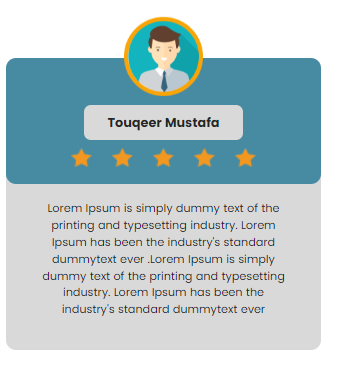
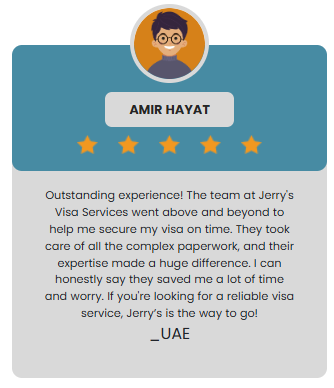
changes

diff --git a/src/component/Carousel.js b/src/component/Carousel.js
@@ -2,10 +2,14 @@ import React from 'react';
 import Slider from 'react-slick';
 import 'slick-carousel/slick/slick.css';
 import 'slick-carousel/slick/slick-theme.css'; 
-import item1 from '../assets/images/item1.png'
-import item2 from '../assets/images/item2.png'
-import item3 from '../assets/images/item3.png'
 import '../App.css'
+import '../assets/css/slider.css';
+
+
+import star from '../assets/images/Icon feather-star.png'
+import client1 from '../assets/images/client1.png'
+import client2 from '../assets/images/client2.png'
+import client3 from '../assets/images/client3.png'
 
 import {SampleNextArrow , SamplePrevArrow} from './CustomArrows'
 
@@ -32,24 +36,97 @@ const Carousel = () => {
   return (
     <div className="carousel-container">
       <Slider {...settings}>
-        <div className="slide-item">
-          <img src={item1} alt="Item 1" />
+        <div className="slide-item" style={{padding:'5rem 0'}}>
+  <div class="carousel-item d-flex active" id="curSlide1" data-bs-interval="10000">
+  <div className="slide w-90 pt-5 mt-4 " style={{margin:'auto',height:'fit-content'}}>
+  <div className="top-bg">
+  <img src={client1} class="d-block w-25 m-auto mt--5 user-img" alt="..."/>
+  <p className="bottle-disc mt-4" style={{fontSize:'1rem'}}>Elena G</p>
+  <div className="stars w-45 m-auto mt-2">
+        <img  src={star} className="m-auto w-50" alt=""/>
+        <img src={star} className="m-auto w-50" alt=""/>
+        <img src={star} className="m-auto w-50" alt=""/>
+        <img src={star} className="m-auto w-50" alt=""/>
+        <img src={star} className="m-auto w-50" alt=""/>
+        </div>
+        </div>
+        <p className="price-txt" style={{fontSize:'0.7rem'}}>Jerry's Visa Services is truly exceptional! Their team is professional, friendly, and highly efficient. They handled my application with such care and attention to detail, making the whole process smooth and hassle-free. I got my visa much faster than I expected. I’m so impressed with their service and would recommend them to anyone needing visa assistance!</p>
+    
+    <p className="country-name-txt" >_SPAIN</p>
+        </div>
+        </div>
         </div>
         <div className="slide-item">
-          <img src={item2} alt="Item 2" />
+        <div class="carousel-item d-flex active" id="curSlide1" data-bs-interval="10000">
+  <div className="slide w-90 pt-5 mt-4 " style={{margin:'auto',height:'fit-content'}}>
+  <div className="top-bg">
+  <img src={client2} class="d-block w-25 m-auto mt--5 user-img" alt="..."/>
+  <p className="bottle-disc mt-4" style={{fontSize:'1rem'}}>MUHAMMAD FAIZAN</p>
+  <div className="stars w-45 m-auto mt-2">
+        <img  src={star} className="m-auto w-50" alt=""/>
+        <img src={star} className="m-auto w-50" alt=""/>
+        <img src={star} className="m-auto w-50" alt=""/>
+        <img src={star} className="m-auto w-50" alt=""/>
+        <img src={star} className="m-auto w-50" alt=""/>
+        </div>
+        </div>
+        <p className="price-txt" style={{fontSize:'0.7rem'}}>I couldn't be happier with the service I received from Jerry's Visa Services! From 
+        start to finish, their team made the visa application process so easy and stress-free. 
+        They answered all my questions, kept me updated, and guided me through every step. Thanks to them, 
+        I got my visa without any issues. Highly recommend them to anyone in need of visa assistance!</p>
+    
+    <p className="country-name-txt" >_PAKISTAN</p>
+        </div>
+        </div>
         </div>
         <div className="slide-item">
-          <img src={item3} alt="Item 3" />
+        <div class="carousel-item d-flex active" id="curSlide1" data-bs-interval="10000">
+  <div className="slide w-90 pt-5 mt-4 " style={{margin:'auto',height:'fit-content'}}>
+  <div className="top-bg">
+  <img src={client1} class="d-block w-25 m-auto mt--5 user-img" alt="..."/>
+  <p className="bottle-disc mt-4" style={{fontSize:'1rem'}}>DIANA-ANFREEA</p>
+  <div className="stars w-45 m-auto mt-2">
+        <img  src={star} className="m-auto w-50" alt=""/>
+        <img src={star} className="m-auto w-50" alt=""/>
+        <img src={star} className="m-auto w-50" alt=""/>
+        <img src={star} className="m-auto w-50" alt=""/>
+        <img src={star} className="m-auto w-50" alt=""/>
+        </div>
+        </div>
+        <p className="price-txt" style={{fontSize:'0.7rem'}}>Jerry's Visa Services provided excellent support throughout my visa application.
+         They were incredibly knowledgeable and professional, which gave me confidence in the entire 
+         process. I especially appreciated their quick response times and attention to detail, ensuring 
+         that my application was flawless. I’m grateful for their dedication and would definitely use their
+          services again in the future!</p>
+    
+    <p className="country-name-txt" >_ROMANIA</p>
+        </div>
+        </div>
         </div>
         <div className="slide-item">
-          <img src={item1} alt="Item 4" />
+        <div class="carousel-item d-flex active" id="curSlide1" data-bs-interval="10000">
+  <div className="slide w-90 pt-5 mt-4 " style={{margin:'auto',height:'fit-content'}}>
+  <div className="top-bg">
+  <img src={client3} class="d-block w-25 m-auto mt--5 user-img" alt="..."/>
+  <p className="bottle-disc mt-4" style={{fontSize:'1rem'}}>AMIR HAYAT</p>
+  <div className="stars w-45 m-auto mt-2">
+        <img  src={star} className="m-auto w-50" alt=""/>
+        <img src={star} className="m-auto w-50" alt=""/>
+        <img src={star} className="m-auto w-50" alt=""/>
+        <img src={star} className="m-auto w-50" alt=""/>
+        <img src={star} className="m-auto w-50" alt=""/>
         </div>
-        <div className="slide-item">
-          <img src={item2} alt="Item 5" />
         </div>
-        <div className="slide-item">
-          <img src={item3} alt="Item 6" />
+        <p className="price-txt" style={{fontSize:'0.7rem'}}>Outstanding experience! The team at Jerry's Visa Services went above and beyond 
+        to help me secure my visa on time. They took care of all the complex paperwork, and their expertise
+         made a huge difference. I can honestly say they saved me a lot of time and worry. If you're 
+         looking for a reliable visa service, Jerry’s is the way to go!</p>
+    
+    <p className="country-name-txt" >_UAE</p>
         </div>
+        </div>
+        </div>
+       
       </Slider>
     </div>
   );

diff --git a/src/component/HomeSlider.js b/src/component/HomeSlider.js
@@ -1,0 +1,74 @@
+import React from "react";
+import Slider from "react-slick";
+import "slick-carousel/slick/slick.css";
+import "slick-carousel/slick/slick-theme.css";
+import sliderImg1 from '../assets/images/slider-img1.png'
+import sliderImg2 from '../assets/images/home-bg1.png'
+import sliderImg3 from '../assets/images/home-bg2.png'
+import Button from 'react-bootstrap/Button';
+import {useNavigate} from 'react-router-dom'
+
+function activeNavItem(path) {
+    var ele = document.querySelectorAll('.nav-link');
+    ele.forEach((element) => {
+     element.classList.remove('active');
+    });
+    if (path == '/') {
+     ele[0].classList.add('active');
+    }else if(path == '/about'){
+     ele[1].classList.add('active');
+    }else if(path == '/products'){
+     ele[2].classList.add('active');
+    }else if(path == '/contact'){
+     ele[3].classList.add('active');
+    } else if(path == '/appointment,'){
+      ele[3].classList.add('active');
+     }
+  
+  }
+const SimpleCarousel = () => {
+      const navigate = useNavigate();
+    const clickHandler=(id)=>{
+        if (id == '/appointment') { 
+           window.open(`${id}`,'_blank','noreferrer');
+        }else{
+          activeNavItem(`${id}`);
+          navigate(`${id}`);
+          window.location.reload();
+        }
+        
+      }
+  const settings = {
+    dots: true,            // Show navigation dots
+    infinite: true,        // Infinite looping of slides
+    speed: 500,            // Transition speed
+    slidesToShow: 1,       // Show 1 slide at a time
+    slidesToScroll: 1,     // Scroll 1 slide at a time
+    autoplay: true,        // Enable auto-play
+    autoplaySpeed: 5000,   // Set auto-play speed to 3 seconds
+  };
+
+  return (
+    <div style={{ width: "100%", margin: "0 auto" }}>
+      <Slider {...settings}>
+        <div className="p-relative">
+        <div className="tag-line-text">Unlocking Boundaries,<br/> Enabling <p>Journeys</p></div>
+        <img src={sliderImg1} className="w-100" alt="" />
+        <Button variant="outline-success consultation-btn w-100 home-btn" onClick={(e)=>clickHandler('/appointment')} >BOOK YOUR APPOINTMENT NOW</Button>
+        </div>
+        <div className="p-relative">
+        <div className="tag-line-text">Simplifying Your Visa Journey,<br/> One <p>Step at a Time</p></div>
+        <img src={sliderImg2} className="w-100" alt="" />
+        <Button variant="outline-success consultation-btn w-100 home-btn" onClick={(e)=>clickHandler('/appointment')} >BOOK YOUR APPOINTMENT NOW</Button>
+        </div>
+        <div className="p-relative">
+        <div className="tag-line-text">YOUR TRAVEL DREAMS,<br/> OUR <p>SERVICES</p></div>
+        <img src={sliderImg3} className="w-100" alt="" />
+        <Button variant="outline-success consultation-btn w-100 home-btn" onClick={(e)=>clickHandler('/appointment')} >BOOK YOUR APPOINTMENT NOW</Button>
+        </div>
+      </Slider>
+    </div>
+  );
+};
+
+export default SimpleCarousel;

diff --git a/src/Pages/Home.js b/src/Pages/Home.js
@@ -8,6 +8,8 @@ import minerals from '../assets/images/Bottle_Minerals.png'
 import Slider from "../component/Slider";
 import ClientSlider from "../component/ClientSlider";
 import sliderImg1 from '../assets/images/slider-img1.png'
+import sliderImg2 from '../assets/images/home-bg1.png'
+import sliderImg3 from '../assets/images/home-bg2.png'
 import aboutUs from '../assets/images/About-us.png'
 import visaConsultancy from "../assets/images/visa-consultancy.png";
 import nic from '../assets/images/NIC.png'
@@ -18,6 +20,7 @@ import { useLinkClickHandler, useNavigate } from "react-router-dom";
 import axios from "axios";
 import SendMessage from "../component/SendMessage";
 import Carousel from '../component/Carousel'
+import SimpleCarousel from "../component/HomeSlider";
 
 const Home = () =>{
 
@@ -113,8 +116,7 @@ return (
     <>
     {/* <div className="image-top" style={{display:'none'}}><img className="w-100" src={banner1} alt="" /></div> */}
   <div className="w-100 " id="home">
-    <div className="tag-line-text">Unlocking Boundaries,<br/> Enabling <p>Journeys</p></div>
-<img src={sliderImg1} className="w-100" alt="" />
+    <SimpleCarousel/>
   </div>
   <div className="row w-95 m-auto py-4" id="aboutUs">
     <p className="text-center heading-text">ABOUT US</p>
@@ -175,11 +177,11 @@ We enthusiastically make your journey memorable that lasts for lifetime without 
   <div className="text-center" id="testimonials" style={{padding:'6vw 0'}}>
   <p className="text-center heading-text">TESTIMONIALS</p>
 
-    <Slider/>
+    {/* <Slider/> */}
   </div>
-  {/* <div id="testimonials" >
+  <div id="testimonials" >
   <Carousel/>
-  </div> */}
+  </div>
   <div id="sendMessage">
 <SendMessage/>
 </div>

diff --git a/src/assets/css/style.css b/src/assets/css/style.css
@@ -138,7 +138,7 @@ button,a{
     margin-top: 1rem;
 }
 .country-name-txt{
-    font-size: 0.7rem;
+    font-size: 1rem;
     font-family: 'poppins';
     width: 80%;
     margin: auto;
@@ -1146,6 +1146,9 @@ margin-top: -5rem !important;
     #home{
         position: relative;
     }
+    .p-relative{
+        position: relative !important;
+    }
     .tag-line-text{
         position: absolute;
         top: 0;
@@ -1157,7 +1160,7 @@ margin-top: -5rem !important;
         height: 100%;
         font-size: 4rem;
         font-family: 'poppins-bold';
-        background: #00000059;
+        background: #000000a1;
         color: white ;
     }
     .tag-line-text p{
@@ -1207,4 +1210,44 @@ margin-top: -5rem !important;
     }
     .react-calendar__tile--now {
         background: #ffff76 ;
+    }
+    .slick-next{
+    position: absolute;
+    top: 50%;
+    right: 1%;
+    z-index: 1;
+    }
+    .slick-prev{
+        position: absolute;
+        top: 50%;
+        left: 1%;
+        z-index: 1;
+        }
+
+    .slick-dots{
+        position: absolute;
+        bottom: 5%;
+        z-index: 1;
+    }    
+
+    .slick-dots li button:before{
+        color: #b62234 !important;
+    }
+    .slick-dots li.slick-active button:before{
+        color: #b62234 !important;
+    }
+    .slick-list{
+        /* padding: 0 !important; */
+        position: relative;
+        top: -107px;
+    }
+    .home-btn{
+        position: absolute;
+        top: 65%;
+        z-index: 3;
+        width: 20% !important;
+        height: fit-content !important;
+        left: 40%;
+        padding: 15px 0;
+        background: #51bcff !important;
     }

diff --git a/src/Pages/Appointment.js b/src/Pages/Appointment.js
@@ -121,8 +121,8 @@ function changeSelectHandler(e) {
     }
 
     function clickHandlerTimeSlots(index) {
-      setSelectedTimeSlot(index);
       setTimeSlotNextDisabled(false);
+      setSelectedTimeSlot(index);
     }
 
 
@@ -189,7 +189,7 @@ function changeSelectHandler(e) {
                    })
                   }
                 </div>
-                {selectedTimeSlot && (
+                {selectedTimeSlot > -1 && (
         <p className='w-85 m-auto mt-2'>
           You have selected Time Slot: <strong>{timeSlots[selectedTimeSlot]}</strong>
         </p>

diff --git a/src/App.css b/src/App.css
@@ -55,9 +55,7 @@
   background: #00000070 !important;
   border-radius: 50% !important;
 }
-.slick-list{
-  padding-top: 3vw !important;
-}
+
 .next-btn{
   filter: grayscale(1);
   width: 8rem !important;

diff --git a/src/assets/css/slider.css b/src/assets/css/slider.css
@@ -1,0 +1,7 @@
+.slick-list{
+  padding:  5rem 0 3rem !important;
+
+}
+.carousel-container{
+    width: 90% !important;
+}
